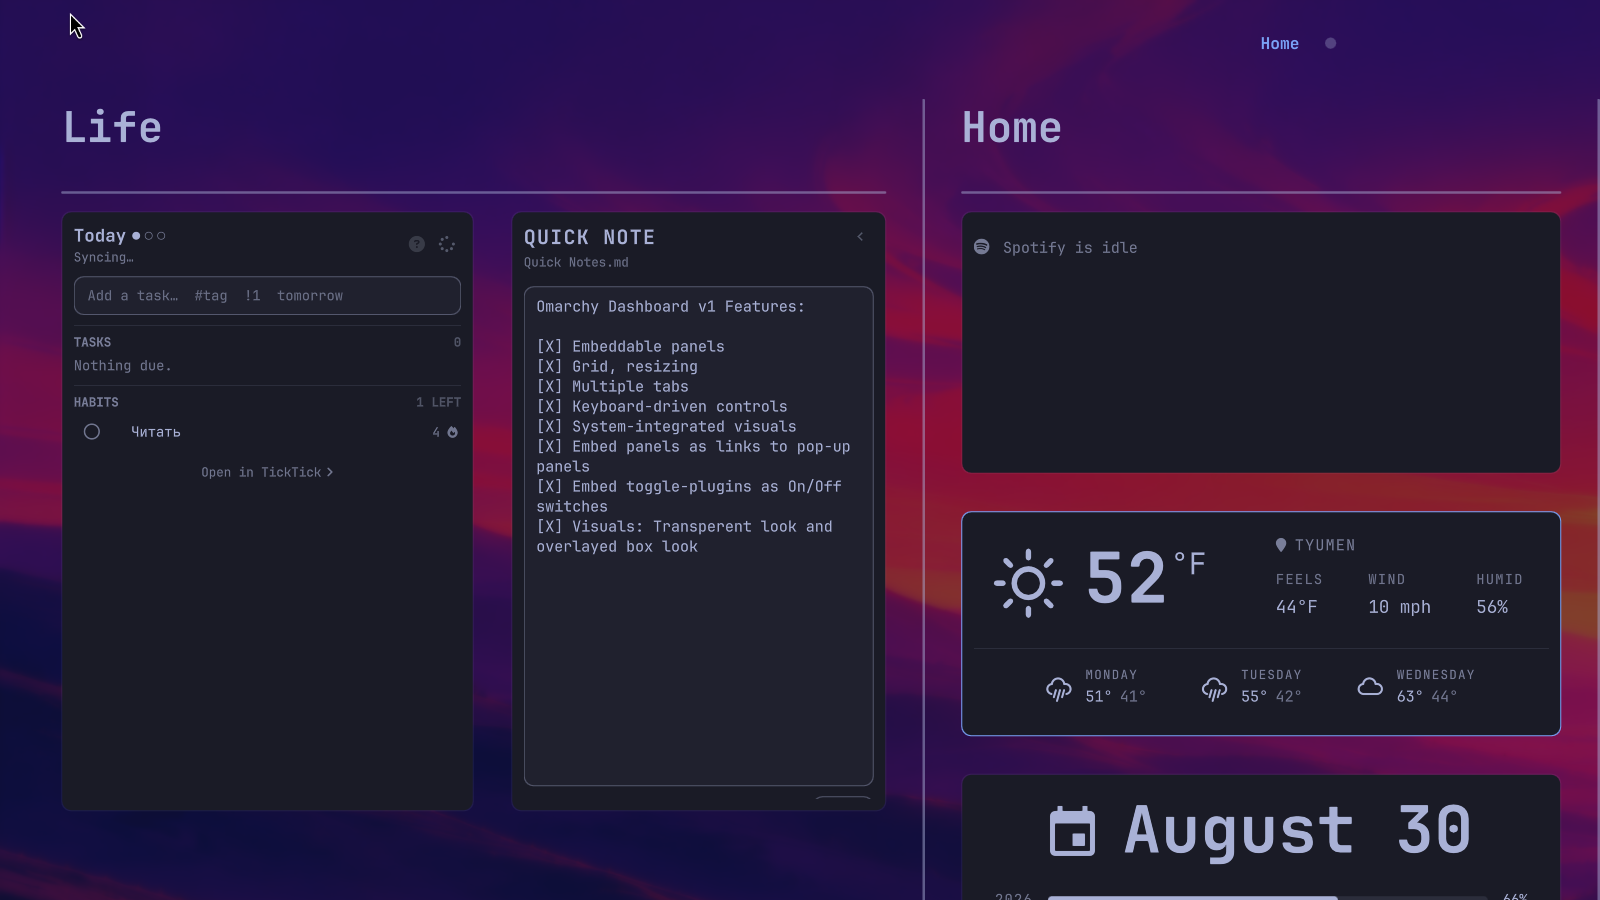
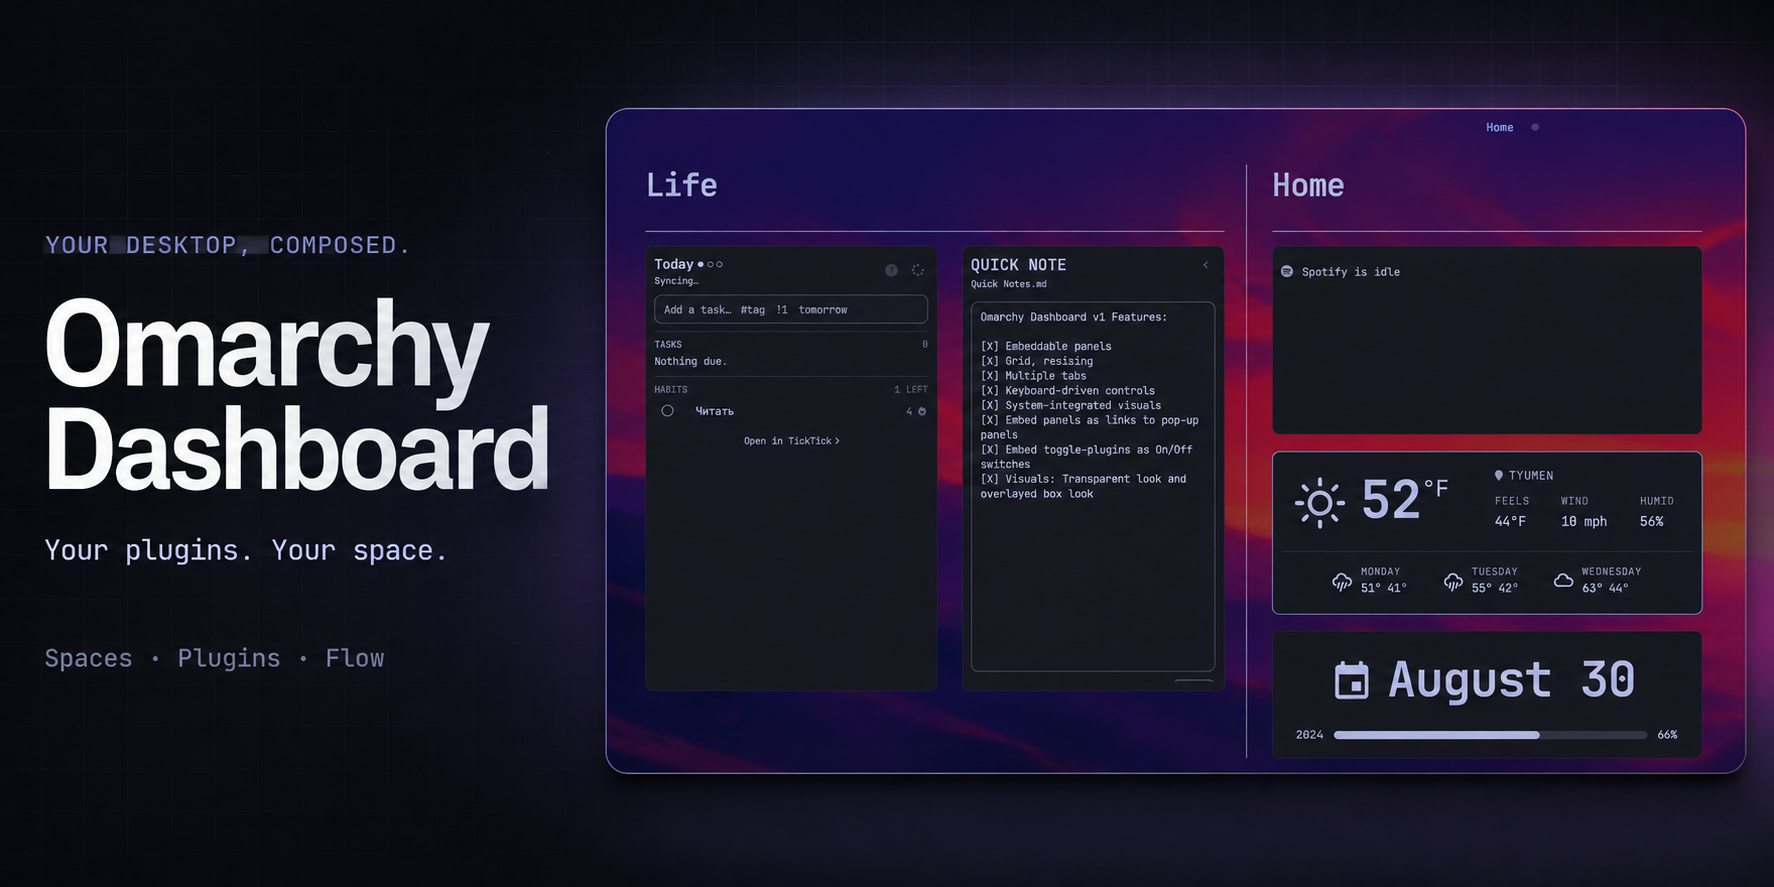
Refresh dashboard hero preview

diff --git a/README.md b/README.md
@@ -5,7 +5,7 @@ Spaces, and work with the mouse or keyboard.
 
 **[Install](#install) · [Configure](#configure) · [Uninstall](#uninstall) · [Guides](#guides)**
 
-![Dashboard in Glass mode with the Tokyo Night theme](preview.png)
+![Omarchy Dashboard — Your plugins. Your space.](preview.png)
 
 ## Install
 
